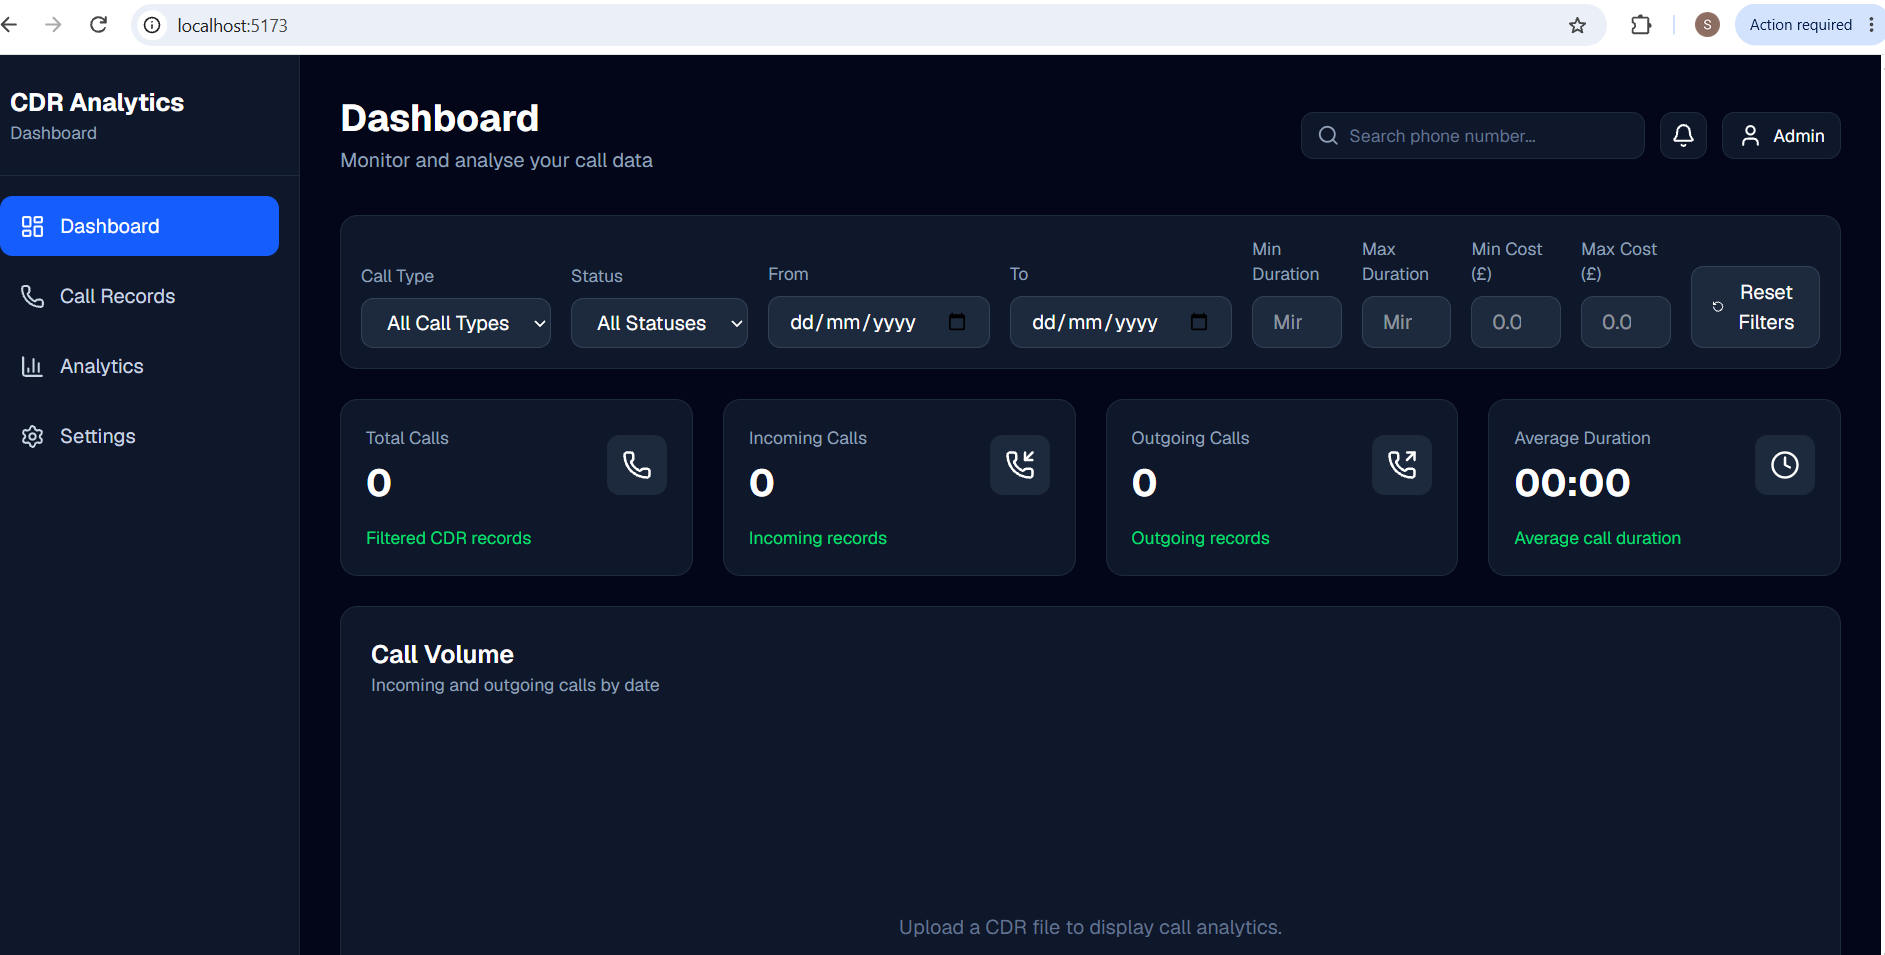
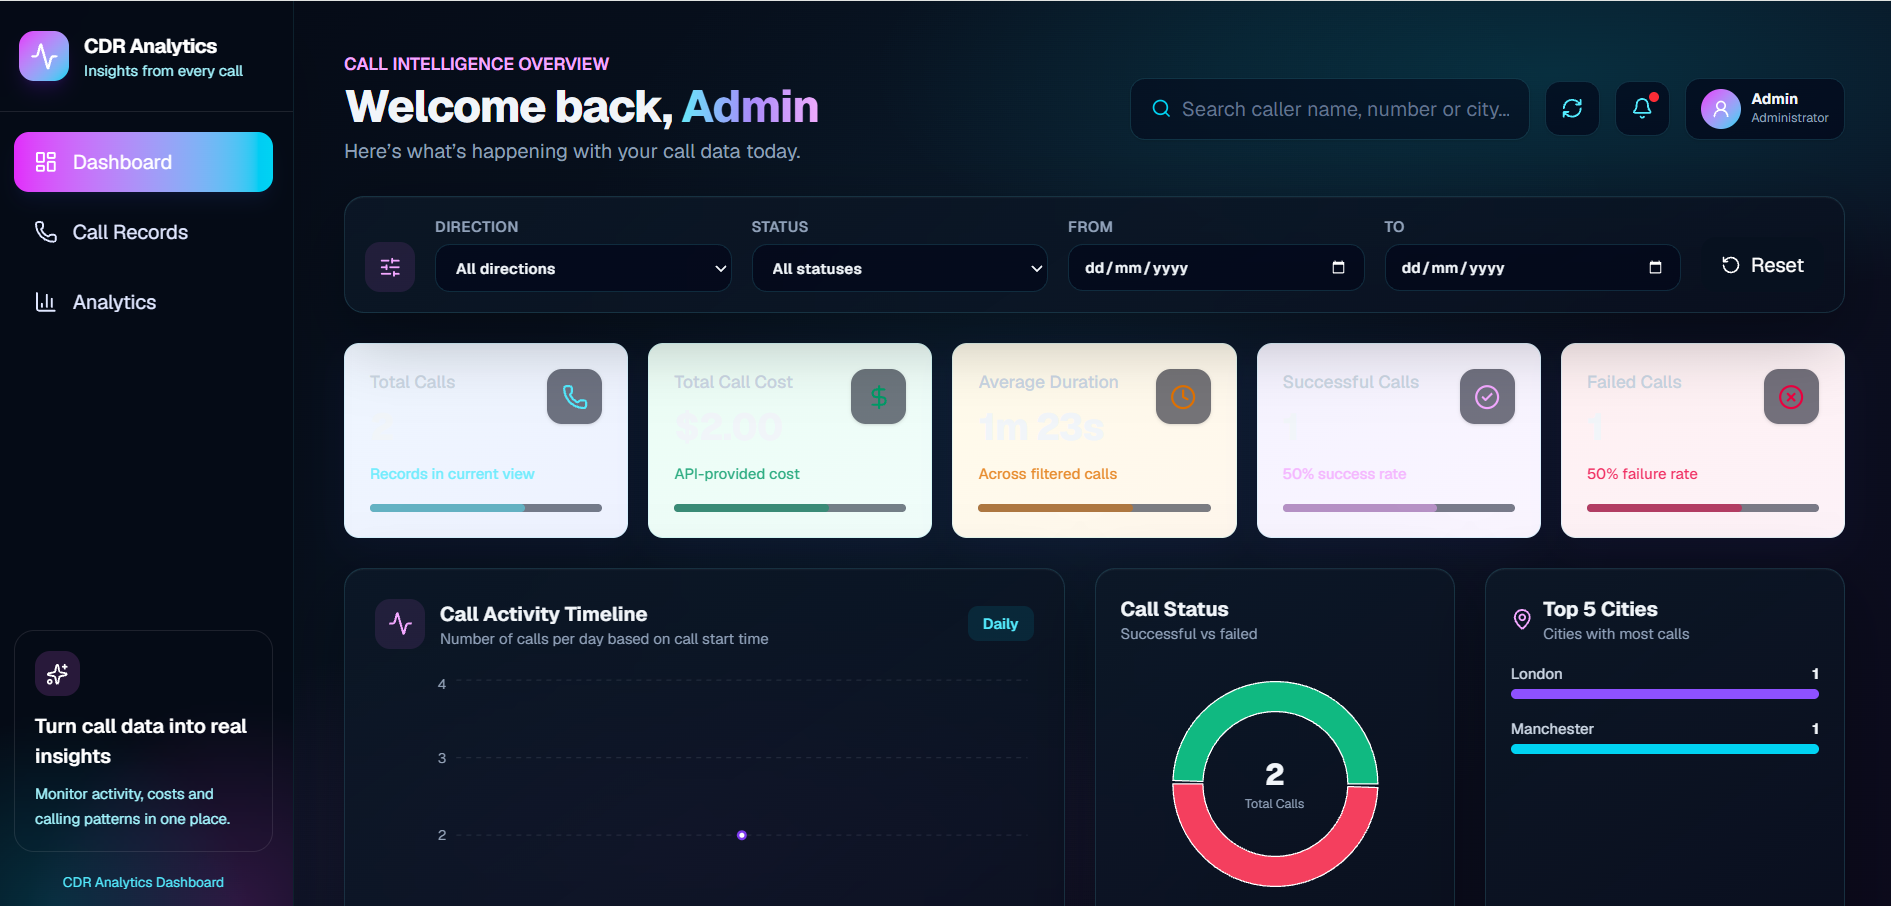
Update README and dashboard screenshot

diff --git a/README.md b/README.md
@@ -1,116 +1,313 @@
+
 # CDR Analytics Dashboard
 
-A React/Vite analytics dashboard for Call Data Record (CDR) analysis. The application consumes the internship assignment's MockAPI endpoint and transforms the returned records into KPI summaries, call-duration analytics, cost analytics, timeline charts, city analytics, and a detailed recent-call table.
+A full-stack Call Detail Record (CDR) analytics dashboard built with React, Vite, and an Express.js API backend.
+
+The application displays call records and transforms CDR data into KPI summaries, call-duration analytics, cost analytics, call activity timelines, city analytics, and detailed recent-call tables.
 
 ## Live Demo
 
-Netlify: https://samuel-cdr-analytics-dashboard.netlify.app
+**Existing Netlify demo:** https://samuel-cdr-analytics-dashboard.netlify.app
 
-> The assignment requests a Vercel submission. This repository includes `vercel.json` and is ready to import into Vercel. Add the final Vercel URL here after deployment.
+**Full-stack Vercel deployment:** Pending deployment.
+
+> The Netlify link is for the existing deployment and may not reflect the latest full-stack application. The Express backend currently runs locally. The frontend and backend must both be configured for production before the full-stack deployment is complete.
 
 ## Screenshot
 
 ![CDR Analytics Dashboard](docs/dashboard-preview.png)
 
-## Assignment Requirements Implemented
+> Replace `docs/dashboard-preview.png` with a screenshot of the latest dashboard before submitting the project.
 
-- React + Vite
-- Tailwind CSS
-- shadcn-style Card and Table components under `src/components/ui`
-- Recharts data visualisations
-- CDR data fetched from the supplied API endpoint
-- KPI cards: Total Calls, Total Call Cost, Average Call Duration, Successful Calls, Failed Calls
-- Call-duration insights: longest, shortest, and average duration
-- Call-cost analytics: total cost by city and average cost per call
-- Call activity timeline: calls per day
-- Calls by city chart
-- Recent call logs table with caller name, caller number, receiver number, city, duration, cost, and start time
-- Search and filters for direction, status, and date range
-- Loading and API error states
-- Responsive navigation and layout
+## Features
+
+### Dashboard and Analytics
+
+- KPI cards for total calls, total call cost, average call duration, successful calls, and failed calls.
+- Call-duration insights, including longest, shortest, and average call duration.
+- Call-cost analytics, including total cost by city and average cost per call.
+- Call activity timeline showing calls per day.
+- Call status distribution.
+- Top cities by call volume.
+- Recent call records displayed in a detailed table.
+
+### Call Records
+
+- Caller name and phone number.
+- Receiver phone number.
+- City.
+- Call direction: Incoming or Outgoing.
+- Call status: Successful or Failed.
+- Call duration and cost.
+- Call start time.
+- Search and filtering by call direction, status, and date range.
+
+### User Experience
+
+- Responsive dashboard layout.
+- Sidebar navigation between Dashboard, Call Records, and Analytics.
+- Loading indicators while retrieving API data.
+- Error messages when API requests fail.
+
+## Technology Stack
+
+| Layer | Technology |
+| --- | --- |
+| Frontend | React 19, Vite 8 |
+| Styling | Tailwind CSS 4 |
+| UI components | shadcn-style components |
+| Charts | Recharts |
+| Icons | Lucide React |
+| Backend | Node.js, Express.js |
+| API communication | HTTP and JSON |
+| Version control | Git and GitHub |
+| Frontend hosting | Netlify; Vercel deployment planned |
+
+## Project Structure
+
+```text
+CDR-ANALYTICS-DASHBOARD-FULLSTACK/
+|
+├── backend/
+│   ├── package.json
+│   ├── package-lock.json
+│   └── server.js
+|
+├── docs/
+│   └── dashboard-preview.png
+|
+├── public/
+│   ├── favicon.svg
+│   └── icons.svg
+|
+├── src/
+│   ├── assets/
+│   |
+│   ├── components/
+│   │   ├── ui/
+│   │   │   ├── button.jsx
+│   │   │   ├── card.jsx
+│   │   │   └── table.jsx
+│   │   ├── CallsChart.jsx
+│   │   ├── Filters.jsx
+│   │   ├── Header.jsx
+│   │   ├── RecentCalls.jsx
+│   │   ├── Sidebar.jsx
+│   │   └── StatCard.jsx
+│   |
+│   ├── lib/
+│   │   ├── callUtils.js
+│   │   └── utils.js
+│   |
+│   ├── pages/
+│   │   ├── AnalyticsPage.jsx
+│   │   ├── CallRecordsPage.jsx
+│   │   └── DashboardPage.jsx
+│   |
+│   ├── services/
+│   │   └── cdrApi.js
+│   |
+│   ├── App.css
+│   ├── App.jsx
+│   ├── index.css
+│   └── main.jsx
+|
+├── .gitignore
+├── README.md
+├── index.html
+├── package.json
+├── package-lock.json
+├── vite.config.js
+└── vercel.json
+```
 
 ## API
 
-The dashboard fetches records from:
+The application includes an Express backend that runs locally at:
+
+```text
+http://localhost:4000
+```
+
+### Health Check
+
+```http
+GET /api/health
+```
+
+Local URL:
+
+```text
+http://localhost:4000/api/health
+```
+
+Expected response:
+
+```json
+{
+  "success": true,
+  "message": "CDR Analytics Backend is running"
+}
+```
+
+### CDR Records
+
+The frontend retrieves CDR records through the API service defined in:
+
+```text
+src/services/cdrApi.js
+```
+
+The Express backend also contains sample CDR records for local testing.
+
+The original assignment supplied the following MockAPI endpoint:
 
 ```text
 https://69b30b45e224ec066bdb55a0.mockapi.io/api/v1/cdr
 ```
 
-The application uses the API fields directly:
+The production data source should be confirmed when configuring the deployed backend.
 
-`callerName`, `callerNumber`, `receiverNumber`, `city`, `callDirection`, `callStatus`, `callDuration`, `callCost`, `callStartTime`, `callEndTime`, and `id`.
+### CDR Data Fields
 
-`callDirection: true` is displayed as Incoming and `false` as Outgoing. `callStatus: true` is displayed as Successful and `false` as Failed. `callDuration` is treated as seconds and `callCost` is converted from the API string to a number for analytics.
+The dashboard works with the following call-record fields:
 
-## Technology Stack
+| Field | Description |
+| --- | --- |
+| `id` | Unique record identifier |
+| `callerName` | Name of the caller |
+| `callerNumber` | Caller's phone number |
+| `receiverNumber` | Receiver's phone number |
+| `city` | City associated with the record |
+| `callDirection` | Incoming or outgoing call |
+| `callStatus` | Successful or failed call |
+| `callDuration` | Call duration in seconds |
+| `callCost` | Cost of the call |
+| `callStartTime` | Call start timestamp |
+| `callEndTime` | Call end timestamp |
 
-- React 19
-- Vite 8
-- Tailwind CSS 4
-- shadcn/ui component structure
-- Recharts
-- Lucide React
-- JavaScript
-- Git / GitHub
-- Netlify / Vercel-ready configuration
+The application uses helper functions in `src/lib/callUtils.js` to format call direction, status, duration, cost, and timestamps for display.
 
 ## Run Locally
 
+### Prerequisites
+
+Install the following:
+
+- Node.js and npm.
+- Git.
+- Visual Studio Code or another code editor.
+
+### 1. Clone the Repository
+
 ```bash
-git clone https://github.com/Sesay-samuel/CDR-ANALYTICS-DASHBOARD.git
-cd CDR-ANALYTICS-DASHBOARD
+git clone https://github.com/Sesay-samuel/CDR-ANALYTICS-DASHBOARD-FULLSTACK.git
+
+cd CDR-ANALYTICS-DASHBOARD-FULLSTACK
+```
+
+### 2. Start the Backend
+
+Open a terminal in the project directory:
+
+```bash
+cd backend
+
 npm install
+
+node server.js
+```
+
+When the server starts successfully, the terminal should display:
+
+```text
+Backend running at http://localhost:4000
+```
+
+Test the backend in your browser:
+
+http://localhost:4000/api/health
+
+Keep this terminal running.
+
+### 3. Start the Frontend
+
+Open a second terminal in the project root.
+
+Install the frontend dependencies:
+
+```bash
+npm install
+```
+
+Start the Vite development server:
+
+```bash
 npm run dev
 ```
 
-Open the local URL printed by Vite, normally `http://localhost:5173`.
+Open the local URL printed by Vite, normally:
+
+http://localhost:5173
+
+The frontend and backend must both be running for the locally configured full-stack application to work.
 
 ## Production Build
 
+From the project root, run:
+
 ```bash
 npm run build
+```
+
+The production frontend files are generated in:
+
+```text
+dist/
+```
+
+To preview the production build locally:
+
+```bash
 npm run preview
 ```
 
-The production output is generated in `dist/`.
+## Deployment
 
-## Deploy to Vercel
+### Frontend Deployment
 
-1. Import this GitHub repository into Vercel.
-2. Select the `main` branch.
-3. Framework preset: Vite.
-4. Build command: `npm run build`.
-5. Output directory: `dist`.
-6. Deploy and add the resulting Vercel URL to this README.
+The React/Vite frontend can be deployed to Netlify or Vercel using the following build settings:
 
-## Project Structure
+| Setting | Value |
+| --- | --- |
+| Repository | `CDR-ANALYTICS-DASHBOARD-FULLSTACK` |
+| Branch | `main` |
+| Framework | Vite |
+| Root directory | Project root |
+| Build command | `npm run build` |
+| Output directory | `dist` |
 
-```text
-src/
-├── components/
-│   ├── ui/
-│   │   ├── card.jsx
-│   │   └── table.jsx
-│   ├── CallsChart.jsx
-│   ├── Filters.jsx
-│   ├── Header.jsx
-│   ├── RecentCalls.jsx
-│   ├── Sidebar.jsx
-│   └── StatCard.jsx
-├── lib/
-│   ├── callUtils.js
-│   └── utils.js
-├── pages/
-│   ├── AnalyticsPage.jsx
-│   ├── CallRecordsPage.jsx
-│   └── DashboardPage.jsx
-├── services/
-│   └── cdrApi.js
-├── App.jsx
-└── main.jsx
-```
+### Backend Deployment
+
+The Express backend must be deployed separately or adapted to a supported serverless environment.
+
+The current local backend address, `http://localhost:4000`, cannot be used as a public production API endpoint.
+
+Before publishing the full-stack application:
+
+1. Configure a production-accessible backend.
+2. Update the frontend API configuration to use the deployed backend URL.
+3. Configure CORS to allow the deployed frontend origin.
+4. Test the API and dashboard on the deployed site.
+
+> The presence of `vercel.json` does not, by itself, deploy the Express backend. Production deployment must be tested before marking the full-stack application as live.
+
+## GitHub Repository
+
+Source code:
+
+https://github.com/Sesay-samuel/CDR-ANALYTICS-DASHBOARD-FULLSTACK
 
 ## Author
 
-Samuel Sesay
+**Samuel Sesay**
